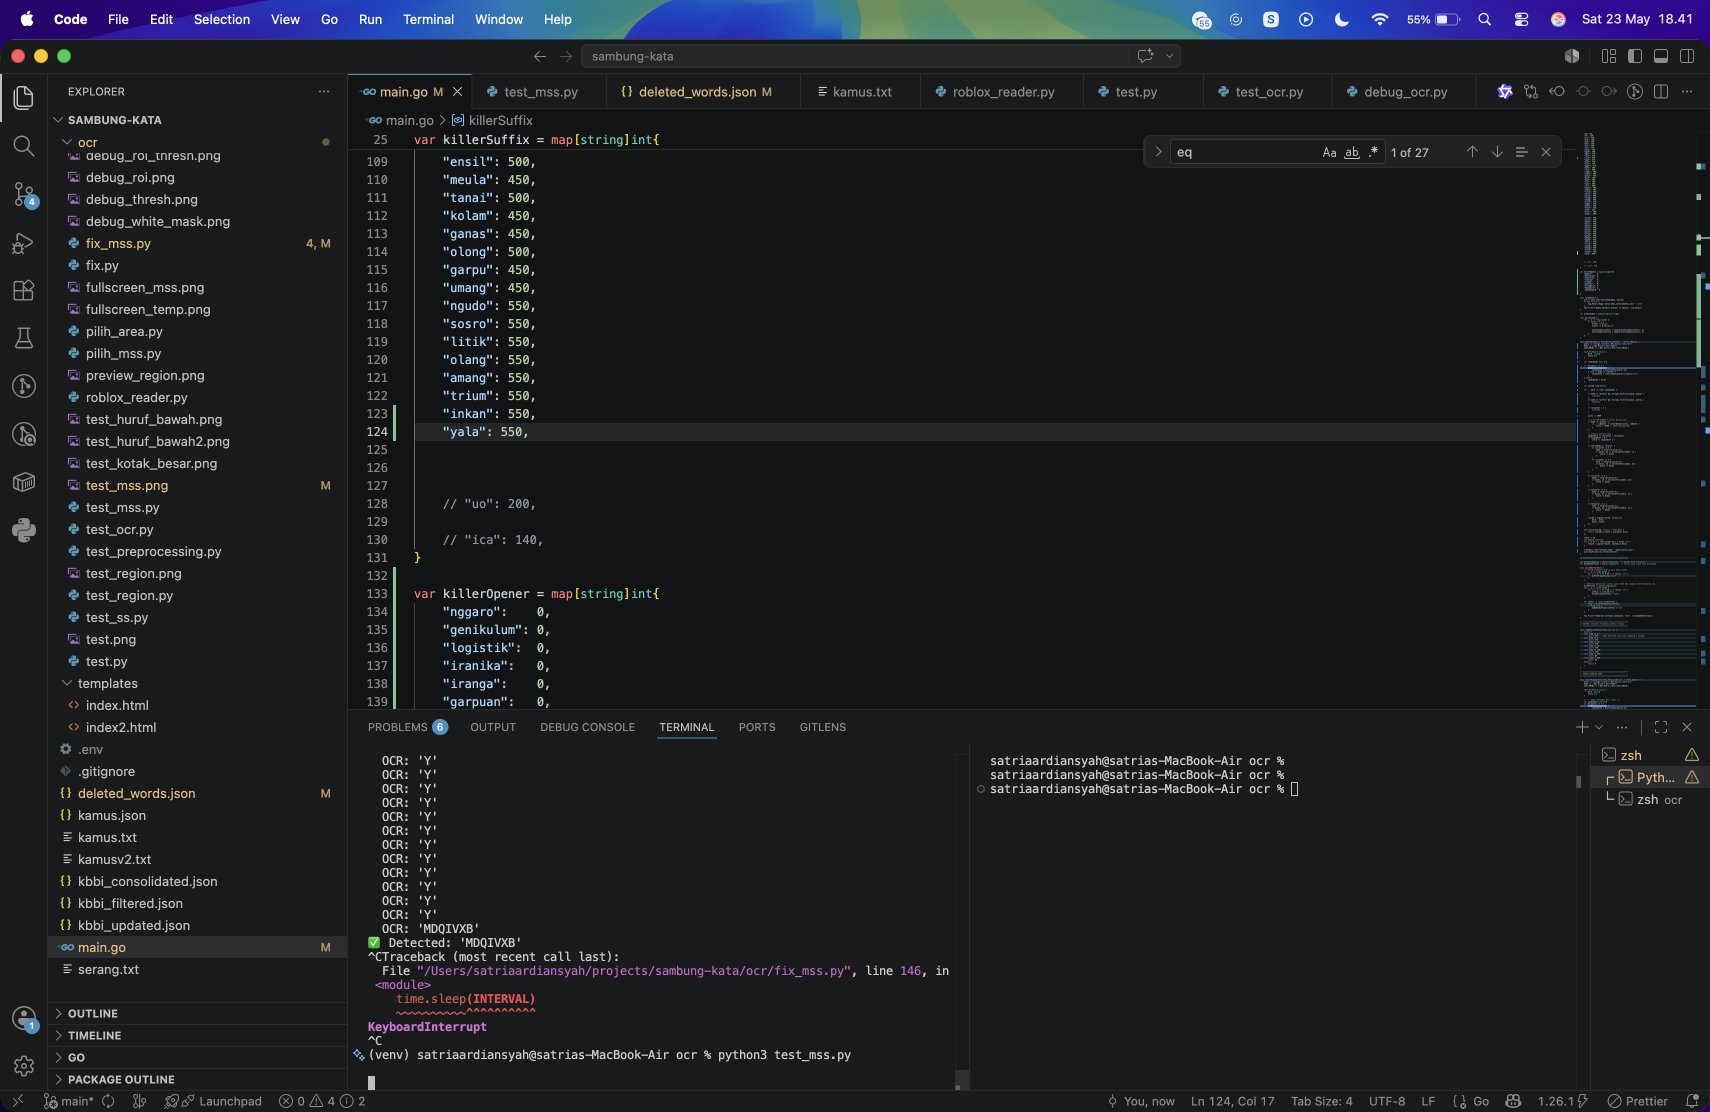
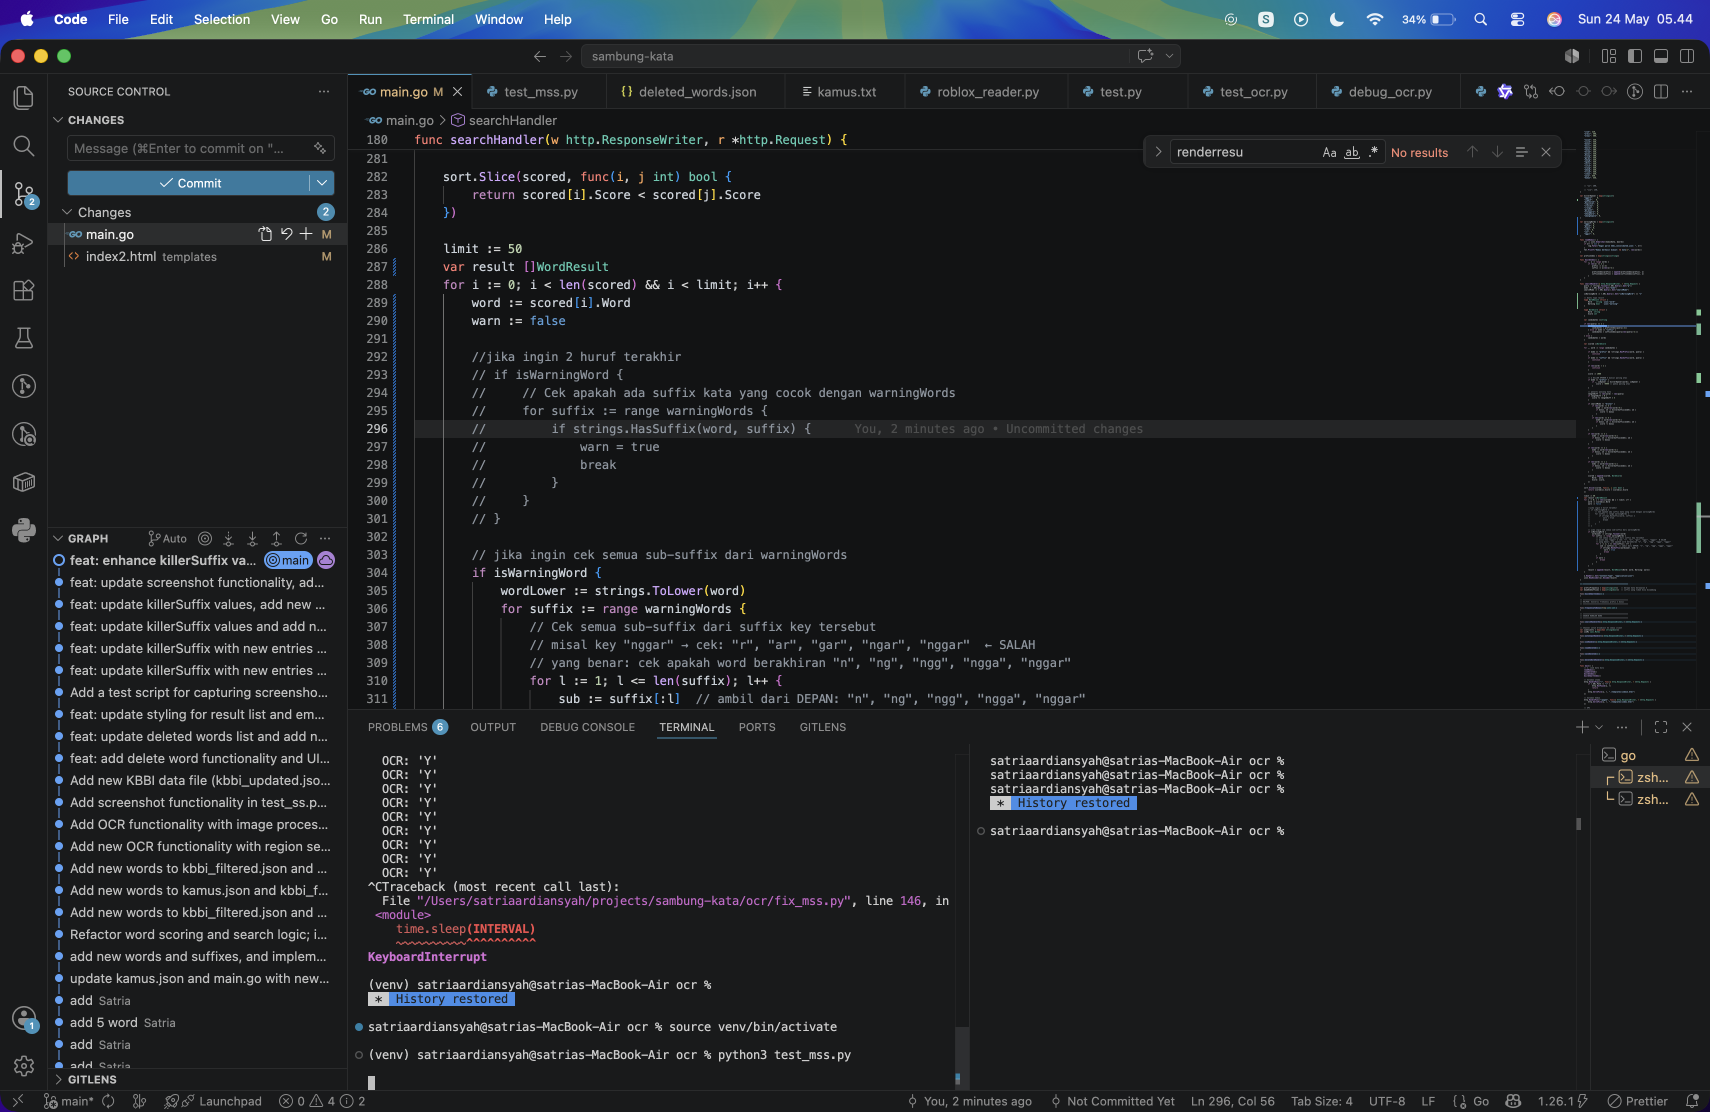
feat: add warning words functionality, enhance search handler, and update UI for warning indication

diff --git a/templates/index2.html b/templates/index2.html
@@ -672,6 +672,14 @@
         />
         <label for="brutal">Brutal</label>
 
+        <input
+          type="checkbox"
+          id="is_warningword"
+          name="warningWords"
+          value="1"
+        />
+        <label for="is_warningword">Bahaya</label>
+
         <!-- <button class="btn btn-ai" onclick="aiSearch()">
           <svg width="14" height="14" viewBox="0 0 24 24" fill="none" stroke="currentColor" stroke-width="2.2" stroke-linecap="round"><path d="M12 2l3.09 6.26L22 9.27l-5 4.87 1.18 6.88L12 17.77l-6.18 3.25L7 14.14 2 9.27l6.91-1.01L12 2z"/></svg>
           AI Jawaban
@@ -726,6 +734,8 @@
           const selectedSearchMode = document.querySelector(
             'input[name="searchMode"]:checked',
           ).value;
+          const isWarningWord =
+            document.getElementById("is_warningword").checked;
           if (!q) {
             showEmpty();
             return;
@@ -733,7 +743,7 @@
 
           try {
             const res = await fetch(
-              `/search?q=${q}&mode=${m}&searchMode=${selectedSearchMode}`,
+              `/search?q=${q}&mode=${m}&searchMode=${selectedSearchMode}&isWarningWord=${isWarningWord ? 1 : 0}`,
             );
             const data = await res.json();
             renderResult(data);
@@ -782,13 +792,26 @@
         const m = mode.value;
 
         const fragment = document.createDocumentFragment();
-        data.slice(0, 50).forEach((word, i) => {
+        data.slice(0, 50).forEach((item, i) => {
+          // Support both string (AI mode) and object (normal mode)
+          const word = typeof item === "string" ? item : item.word;
+          const isWarn = typeof item === "object" && item.warning;
+
           const li = document.createElement("li");
           if (isAI && i === 0) li.classList.add("best");
 
-          // Label kata (klik untuk pakai kata)
+          // Warna merah jika warning
+          if (isWarn) {
+            li.style.borderColor = "rgba(255, 80, 80, 0.35)";
+            li.style.background = "rgba(255, 80, 80, 0.08)";
+          }
+
           const label = document.createElement("span");
           label.className = "word-label";
+
+          // Teks merah jika warning
+          if (isWarn) label.style.color = "#ff6b6b";
+
           label.innerHTML =
             (isAI && i === 0 ? "🔥 BEST: " : "") + highlightMatch(word, q, m);
           label.onclick = () => {
@@ -796,7 +819,6 @@
             input.focus();
           };
 
-          // Tombol hapus
           const del = document.createElement("button");
           del.className = "btn-del";
           del.textContent = "✕ hapus";

diff --git a/main.go b/main.go
@@ -135,6 +135,7 @@ var killerSuffix = map[string]int{
 
 var killerOpener = map[string]int{
     "nggaro":    0,
+	"inggih":   0,
     "genikulum": 0,
     "logistik":  0,
     "iranika":   0,
@@ -143,7 +144,15 @@ var killerOpener = map[string]int{
 	"olanggara": 0,
 	"ahangkara": 0,
 	"umangkapala": 0,
+}
 
+var warningWords = map[string]int{
+	"nggar": 0,
+	"genik": 0,
+	"logis": 0,
+	"iran": 0,
+	"iat": 0,
+	"nggil": 0,
 }
 
 func loadKamus() {
@@ -172,6 +181,14 @@ func searchHandler(w http.ResponseWriter, r *http.Request) {
     query := strings.ToLower(r.URL.Query().Get("q"))
     mode := r.URL.Query().Get("mode")
     searchMode := r.URL.Query().Get("searchMode")
+
+	isWarningWord := r.URL.Query().Get("isWarningWord") == "1"
+
+    // Ganti type result
+    type WordResult struct {
+        Word    string `json:"word"`
+        Warning bool   `json:"warning"`
+    }
 
     type WordScore struct {
         Word  string
@@ -267,9 +284,43 @@ func searchHandler(w http.ResponseWriter, r *http.Request) {
     })
 
     limit := 50
-    var result []string
+    var result []WordResult
     for i := 0; i < len(scored) && i < limit; i++ {
-        result = append(result, scored[i].Word)
+        word := scored[i].Word
+        warn := false
+
+		//jika ingin 2 huruf terakhir
+        // if isWarningWord {
+        //     // Cek apakah ada suffix kata yang cocok dengan warningWords
+        //     for suffix := range warningWords {
+        //         if strings.HasSuffix(word, suffix) {
+        //             warn = true
+        //             break
+        //         }
+        //     }
+        // }
+
+		// jika ingin cek semua sub-suffix dari warningWords
+		if isWarningWord {
+			wordLower := strings.ToLower(word)
+			for suffix := range warningWords {
+				// Cek semua sub-suffix dari suffix key tersebut
+				// misal key "nggar" → cek: "r", "ar", "gar", "ngar", "nggar"  ← SALAH
+				// yang benar: cek apakah word berakhiran "n", "ng", "ngg", "ngga", "nggar"
+				for l := 1; l <= len(suffix); l++ {
+					sub := suffix[:l]  // ambil dari DEPAN: "n", "ng", "ngg", "ngga", "nggar"
+					if strings.HasSuffix(wordLower, sub) {
+						warn = true
+						break
+					}
+				}
+				if warn {
+					break
+				}
+			}
+		}
+
+        result = append(result, WordResult{Word: word, Warning: warn})
     }
 
     w.Header().Set("Content-Type", "application/json")